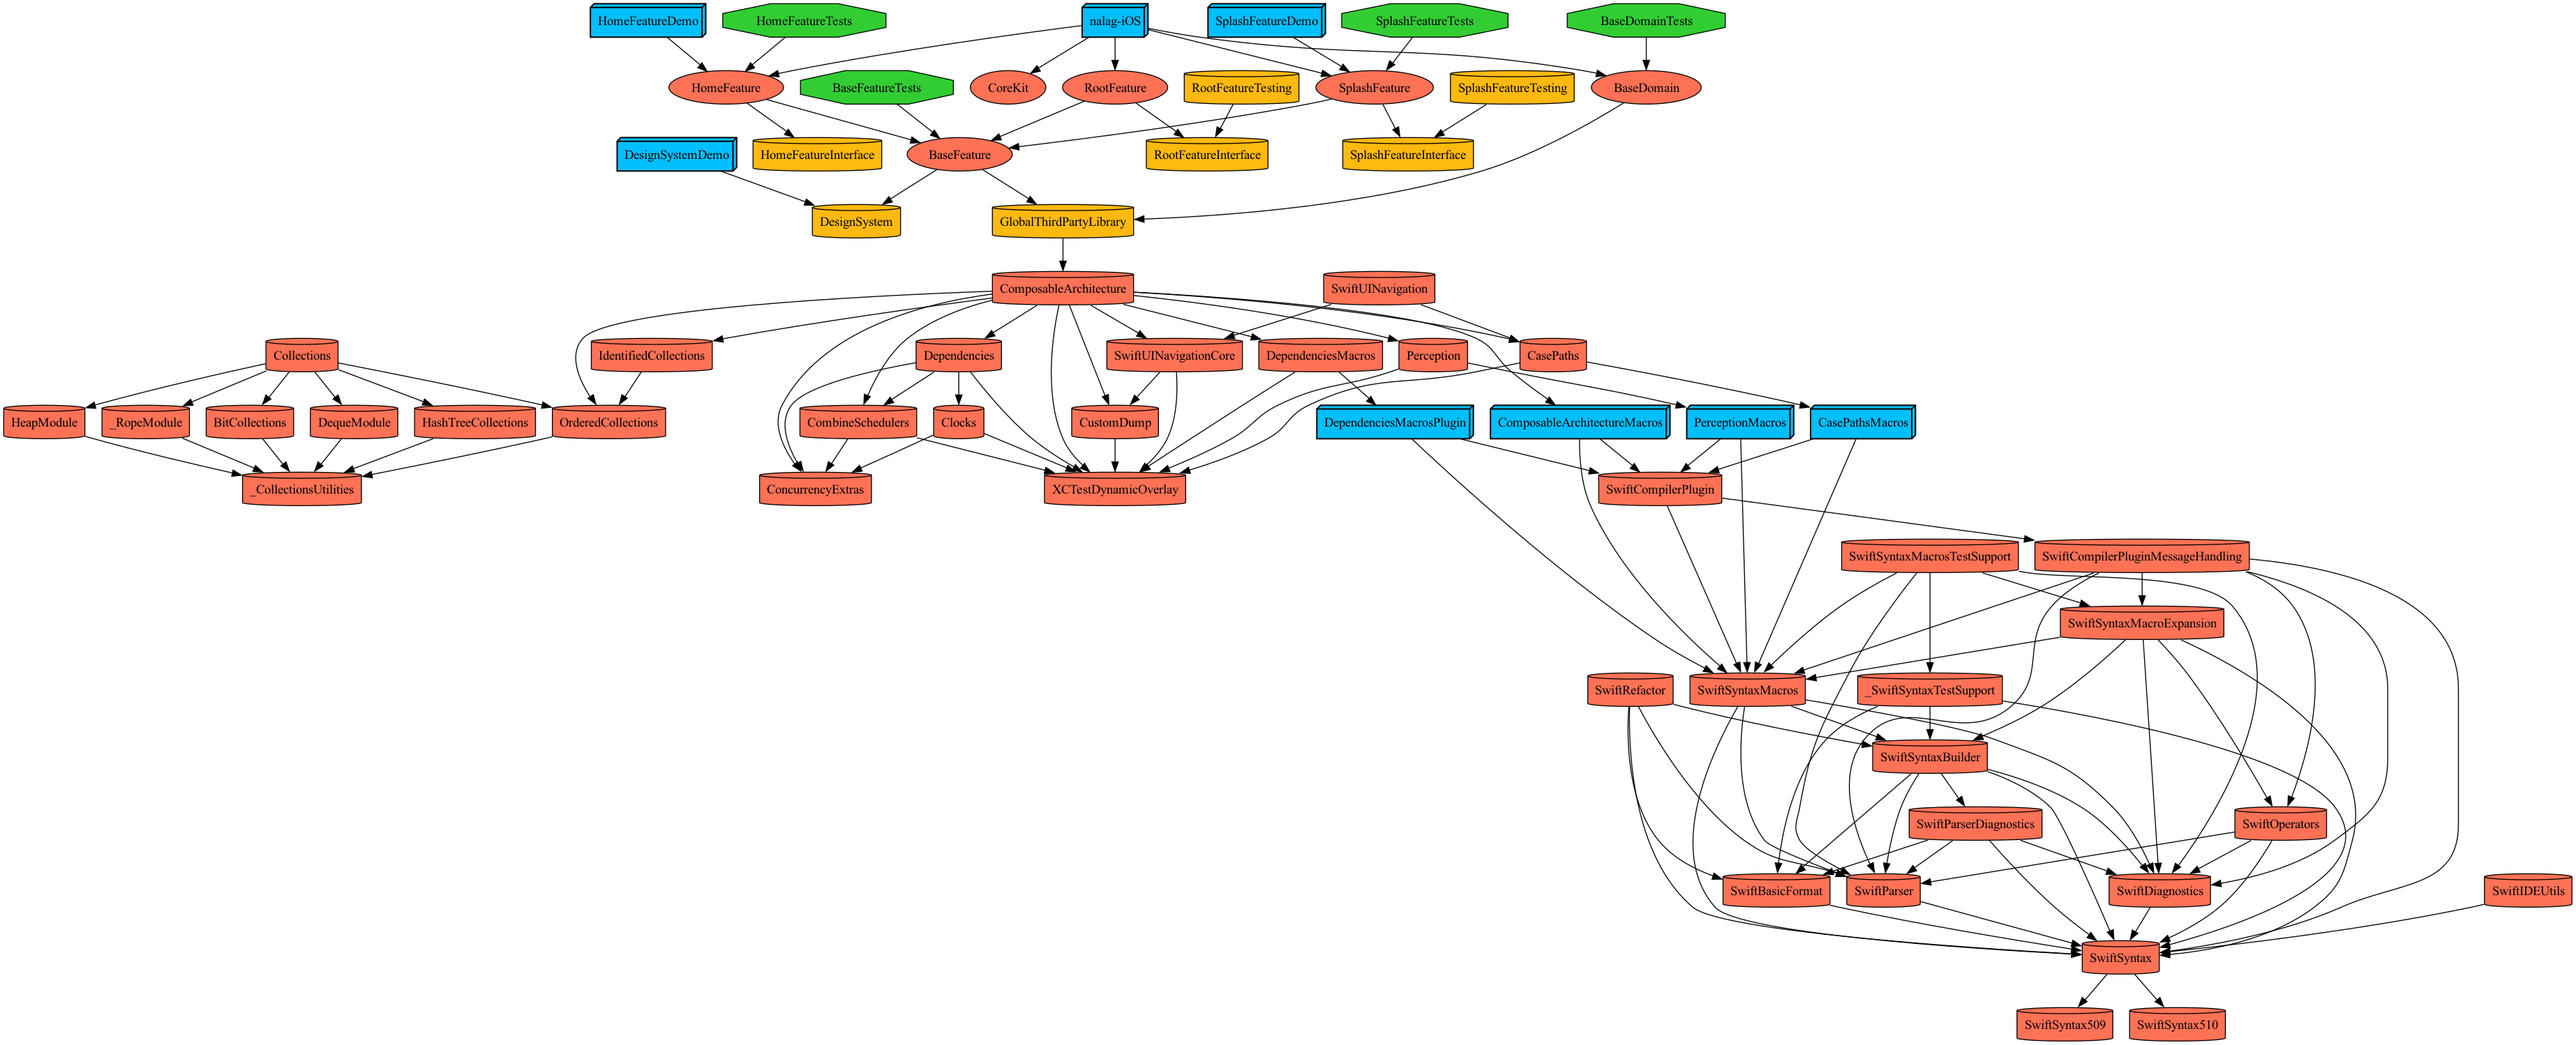
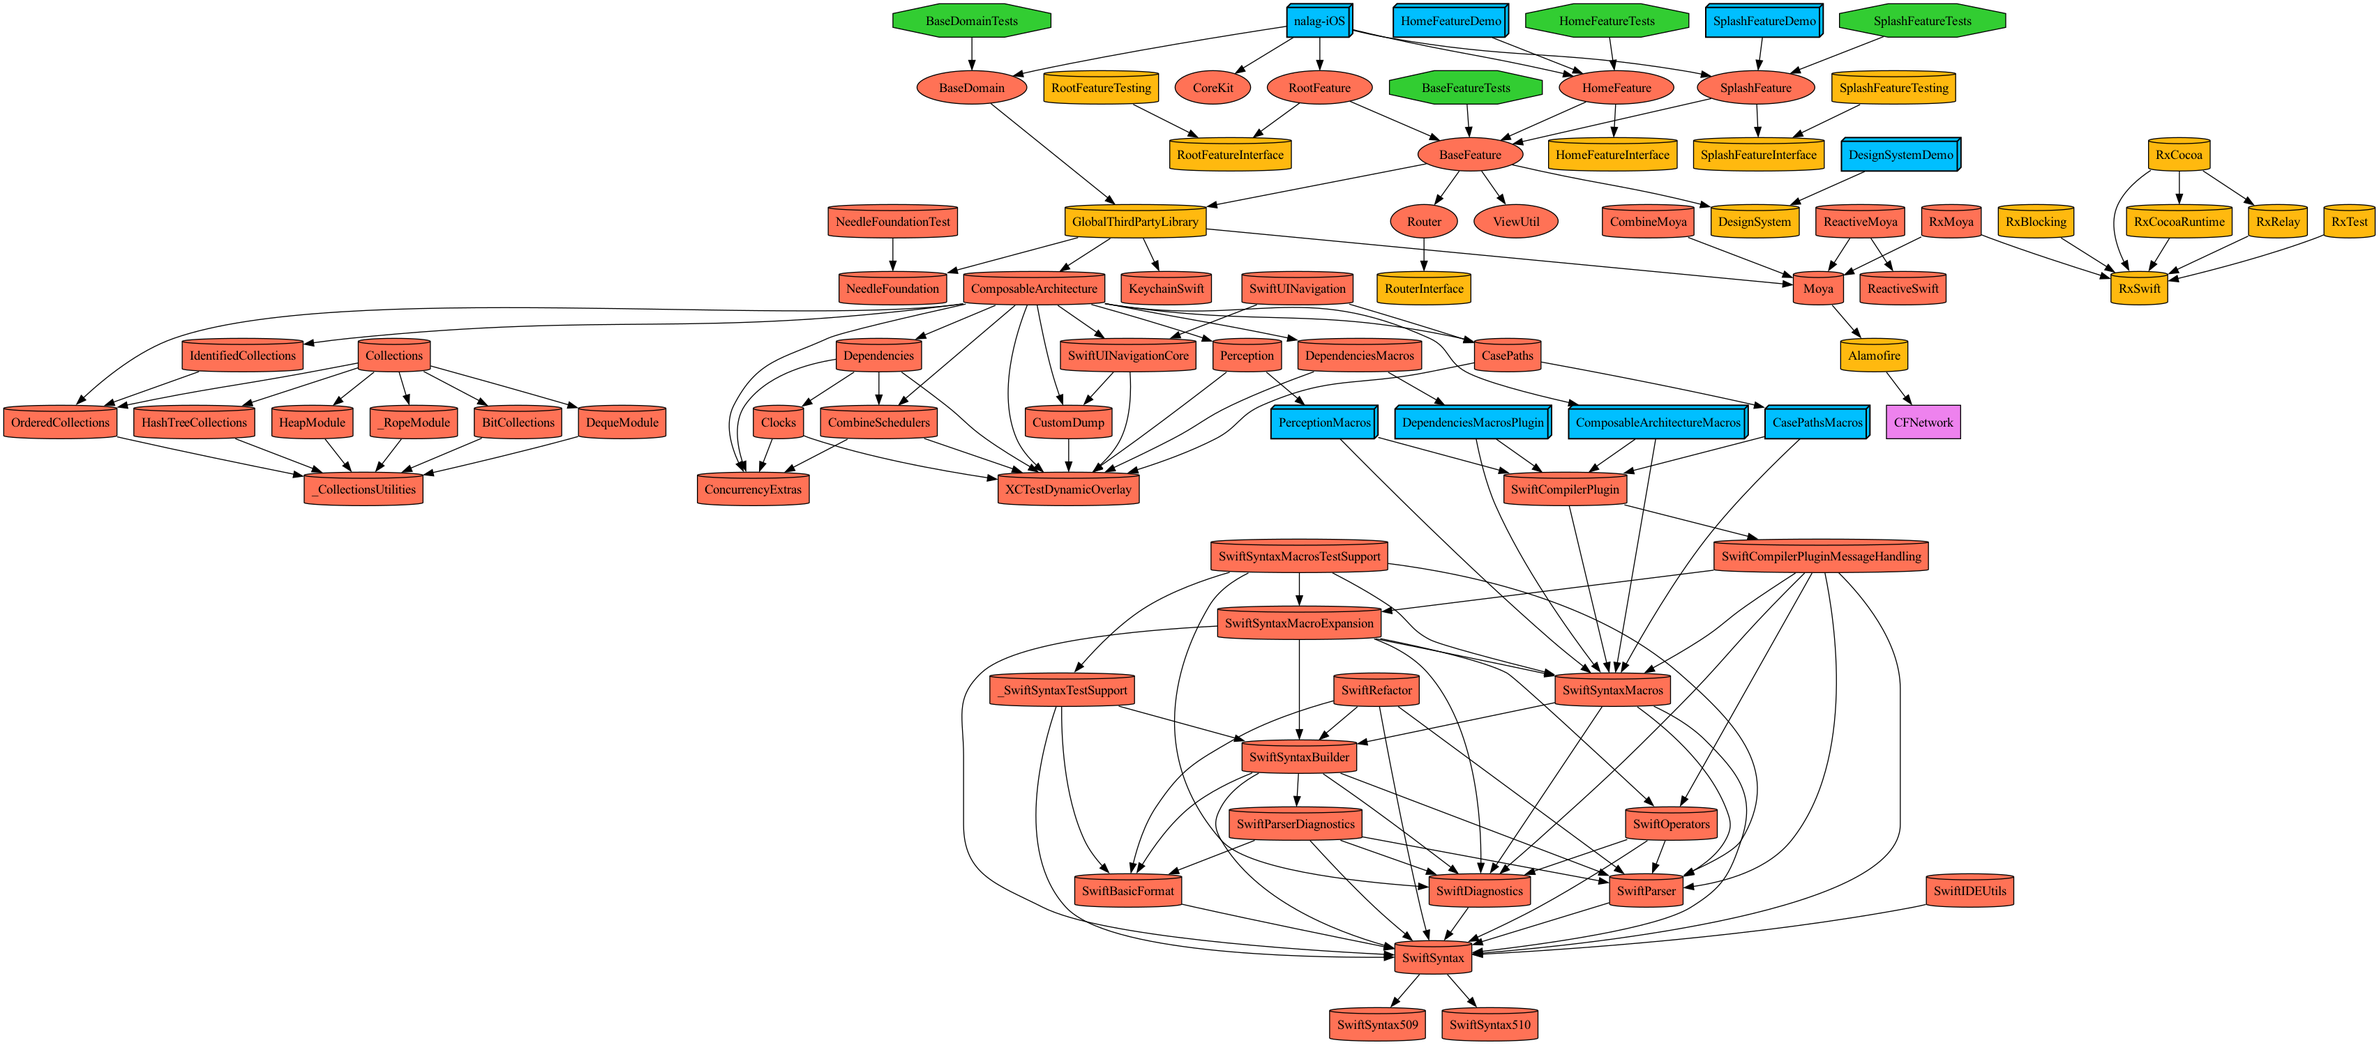
프젝 세팅

diff --git a/Projects/App/Sources/Application/NeedleGenerated.swift b/Projects/App/Sources/Application/NeedleGenerated.swift
@@ -1,0 +1,92 @@
+
+
+import HomeFeature
+import HomeFeatureInterface
+import NeedleFoundation
+import RootFeature
+import RootFeatureInterface
+import SplashFeatureInterface
+import SwiftUI
+
+// swiftlint:disable unused_declaration
+private let needleDependenciesHash : String? = nil
+
+// MARK: - Traversal Helpers
+
+private func parent1(_ component: NeedleFoundation.Scope) -> NeedleFoundation.Scope {
+    return component.parent
+}
+
+// MARK: - Providers
+
+#if !NEEDLE_DYNAMIC
+
+private class RootDependency3944cc797a4a88956fb5Provider: RootDependency {
+    var homeFactory: any HomeFactory {
+        return appComponent.homeFactory
+    }
+    private let appComponent: AppComponent
+    init(appComponent: AppComponent) {
+        self.appComponent = appComponent
+    }
+}
+/// ^->AppComponent->RootComponent
+private func factory264bfc4d4cb6b0629b40f47b58f8f304c97af4d5(_ component: NeedleFoundation.Scope) -> AnyObject {
+    return RootDependency3944cc797a4a88956fb5Provider(appComponent: parent1(component) as! AppComponent)
+}
+private class HomeDependency443c4e1871277bd8432aProvider: HomeDependency {
+
+
+    init() {
+
+    }
+}
+/// ^->AppComponent->HomeComponent
+private func factory67229cdf0f755562b2b1e3b0c44298fc1c149afb(_ component: NeedleFoundation.Scope) -> AnyObject {
+    return HomeDependency443c4e1871277bd8432aProvider()
+}
+
+#else
+extension AppComponent: Registration {
+    public func registerItems() {
+
+        localTable["homeFactory-any HomeFactory"] = { [unowned self] in self.homeFactory as Any }
+    }
+}
+extension RootComponent: Registration {
+    public func registerItems() {
+        keyPathToName[\RootDependency.homeFactory] = "homeFactory-any HomeFactory"
+    }
+}
+extension HomeComponent: Registration {
+    public func registerItems() {
+
+    }
+}
+
+
+#endif
+
+private func factoryEmptyDependencyProvider(_ component: NeedleFoundation.Scope) -> AnyObject {
+    return EmptyDependencyProvider(component: component)
+}
+
+// MARK: - Registration
+private func registerProviderFactory(_ componentPath: String, _ factory: @escaping (NeedleFoundation.Scope) -> AnyObject) {
+    __DependencyProviderRegistry.instance.registerDependencyProviderFactory(for: componentPath, factory)
+}
+
+#if !NEEDLE_DYNAMIC
+
+@inline(never) private func register1() {
+    registerProviderFactory("^->AppComponent", factoryEmptyDependencyProvider)
+    registerProviderFactory("^->AppComponent->RootComponent", factory264bfc4d4cb6b0629b40f47b58f8f304c97af4d5)
+    registerProviderFactory("^->AppComponent->HomeComponent", factory67229cdf0f755562b2b1e3b0c44298fc1c149afb)
+}
+#endif
+
+public func registerProviderFactories() {
+#if !NEEDLE_DYNAMIC
+    register1()
+#endif
+}

diff --git a/Projects/Shared/Router/Sources/Router.swift b/Projects/Shared/Router/Sources/Router.swift
@@ -1,0 +1,52 @@
+//import SwiftUI
+//import RootFeatureInterface
+//import ViewUtil
+//
+//class Router: ObservableObject {
+//
+//    private let appComponent: AppComponent
+//    private let root: Route
+//
+//    public init(
+//        root: Route,
+//        appComponent: AppComponent
+//    ) {
+//        self.appComponent = appComponent
+//        self.root = root
+//    }
+//
+//    enum Route: Hashable {
+//        case root
+//    }
+//
+//    @Published var path: NavigationPath = NavigationPath()
+//
+//    @ViewBuilder func view(for route: Route) -> some View {
+//        switch route {
+//        case .root:
+//            appComponent.rootComponent.makeView()
+//                .eraseToAnyView()
+//        }
+//    }
+//
+//    @ViewBuilder func start() -> some View {
+//        Routing {
+//            self.view(for: self.root)
+//        }
+//    }
+//    
+//    // Used by views to navigate to another view
+//    func navigateTo(_ appRoute: Route) {
+//        path.append(appRoute)
+//    }
+//    
+//    // Used to go back to the previous screen
+//    func navigateBack() {
+//        path.removeLast()
+//    }
+//    
+//    // Pop to the root screen in our hierarchy
+//    func popToRoot() {
+//        path.removeLast(path.count)
+//    }
+//}

diff --git a/Projects/App/Sources/Application/DI/AppComponent.swift b/Projects/App/Sources/Application/DI/AppComponent.swift
@@ -1,0 +1,34 @@
+import NeedleFoundation
+import SwiftUI
+import RootFeature
+import RootFeatureInterface
+import HomeFeature
+import HomeFeatureInterface
+
+public final class AppComponent: BootstrapComponent {
+//    private let _keychain: any Keychain
+//
+//    init(keychain: any Keychain) {
+//        self._keychain = keychain
+//    }
+
+    public func makeRootView() -> some View {
+        rootComponent.makeView()
+    }
+
+//    public var keychain: any Keychain {
+//        shared {
+//            _keychain
+//        }
+//    }
+
+    var rootComponent: RootComponent {
+        RootComponent(parent: self)
+    }
+}
+
+public extension AppComponent {
+    var homeFactory: any HomeFactory {
+        HomeComponent(parent: self)
+    }
+}

diff --git a/Projects/Feature/BaseFeature/Project.swift b/Projects/Feature/BaseFeature/Project.swift
@@ -7,7 +7,9 @@ let project = Project.module(
     targets: [
         .implements(module: .feature(.BaseFeature), dependencies: [
             .userInterface(target: .DesignSystem),
-            .shared(target: .GlobalThirdPartyLibrary)
+            .shared(target: .GlobalThirdPartyLibrary),
+            .shared(target: .ViewUtil),
+            .shared(target: .Router)
         ]),
         .tests(module: .feature(.BaseFeature), dependencies: [
             .feature(target: .BaseFeature)

diff --git a/Projects/Shared/Router/Project.swift b/Projects/Shared/Router/Project.swift
@@ -1,0 +1,13 @@
+import DependencyPlugin
+import ProjectDescription
+import ProjectDescriptionHelpers
+
+let project = Project.module(
+    name: ModulePaths.Shared.Router.rawValue,
+    targets: [
+        .interface(module: .shared(.Router)),
+        .implements(module: .shared(.Router), dependencies: [
+            .shared(target: .Router, type: .interface)
+        ])
+    ]
+)

diff --git a/Projects/Feature/RootFeature/Sources/RootComponent.swift b/Projects/Feature/RootFeature/Sources/RootComponent.swift
@@ -1,0 +1,14 @@
+import RootFeatureInterface
+import HomeFeatureInterface
+import NeedleFoundation
+import SwiftUI
+
+public protocol RootDependency: Dependency {
+    var homeFactory: any HomeFactory { get }
+}
+
+public final class RootComponent: Component<RootDependency>, RootFactory {
+    public func makeView() -> some View {
+        RootView()
+    }
+}

diff --git a/Projects/App/Sources/Application/NalagApp.swift b/Projects/App/Sources/Application/NalagApp.swift
@@ -1,12 +1,17 @@
 import SwiftUI
 import HomeFeature
 import HomeFeatureInterface
+import BaseFeature
 
 @main
 struct NalagApp: App {
+    init() {
+        registerProviderFactories()
+    }
+
     var body: some Scene {
         WindowGroup {
-            HomeView()
+            AppComponent().makeRootView()
         }
     }
 

diff --git a/Tuist/ProjectDescriptionHelpers/Action/Action+Template.swift b/Tuist/ProjectDescriptionHelpers/Action/Action+Template.swift
@@ -5,4 +5,8 @@ public extension TargetScript {
         path: Path.relativeToRoot("Scripts/SwiftLintRunScript.sh"),
         name: "SwiftLint"
     )
+    static let needle = TargetScript.pre(
+        path: Path.relativeToRoot("Scripts/NeedleRunScript.sh"),
+        name: "Needle"
+    )
 }

diff --git a/Projects/Feature/HomeFeature/Sources/HomeComponent.swift b/Projects/Feature/HomeFeature/Sources/HomeComponent.swift
@@ -1,0 +1,11 @@
+import NeedleFoundation
+import SwiftUI
+import HomeFeatureInterface
+
+public protocol HomeDependency: Dependency {}
+
+public final class HomeComponent: Component<HomeDependency>, HomeFactory {
+    public func makeView() -> some View {
+        HomeView()
+    }
+}

diff --git a/Projects/Shared/ViewUtil/Project.swift b/Projects/Shared/ViewUtil/Project.swift
@@ -1,0 +1,10 @@
+import DependencyPlugin
+import ProjectDescription
+import ProjectDescriptionHelpers
+
+let project = Project.module(
+    name: ModulePaths.Shared.ViewUtil.rawValue,
+    targets: [
+        .implements(module: .shared(.ViewUtil))
+    ]
+)

diff --git a/Projects/App/Project.swift b/Projects/App/Project.swift
@@ -13,7 +13,7 @@ let settings: Settings = .settings(
     defaultSettings: .recommended
 )
 
-let scripts: [TargetScript] = generateEnvironment.scripts
+let scripts: [TargetScript] = [.needle]
 
 let targets: [Target] = [
     .init(

diff --git a/Plugin/DependencyPlugin/ProjectDescriptionHelpers/ModulePaths.swift b/Plugin/DependencyPlugin/ProjectDescriptionHelpers/ModulePaths.swift
@@ -45,6 +45,8 @@ public extension ModulePaths {
 
 public extension ModulePaths {
     enum Shared: String, MicroTargetPathConvertable {
+        case Router
+        case ViewUtil
         case GlobalThirdPartyLibrary
     }
 }
